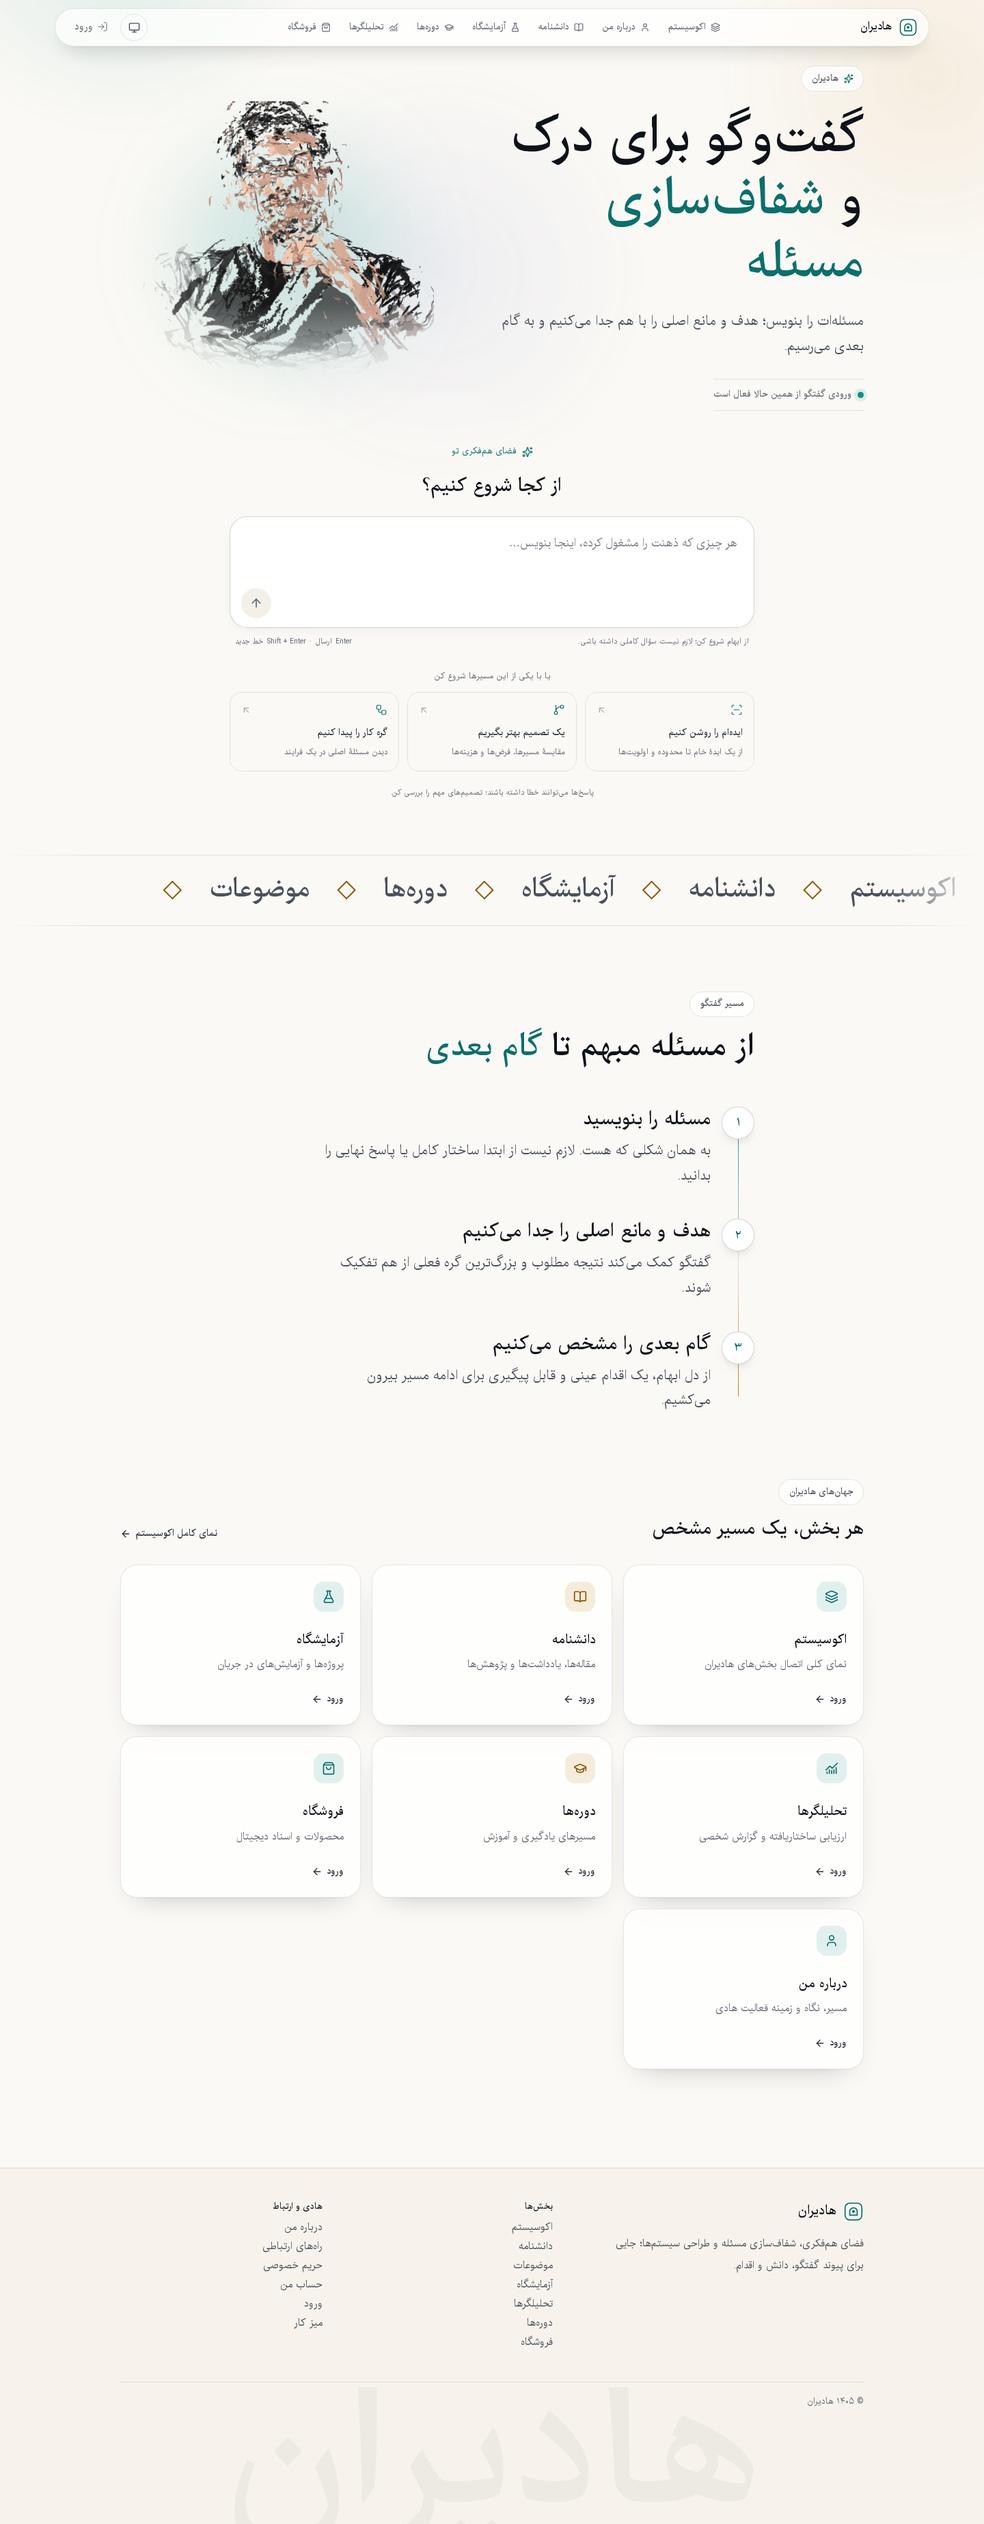
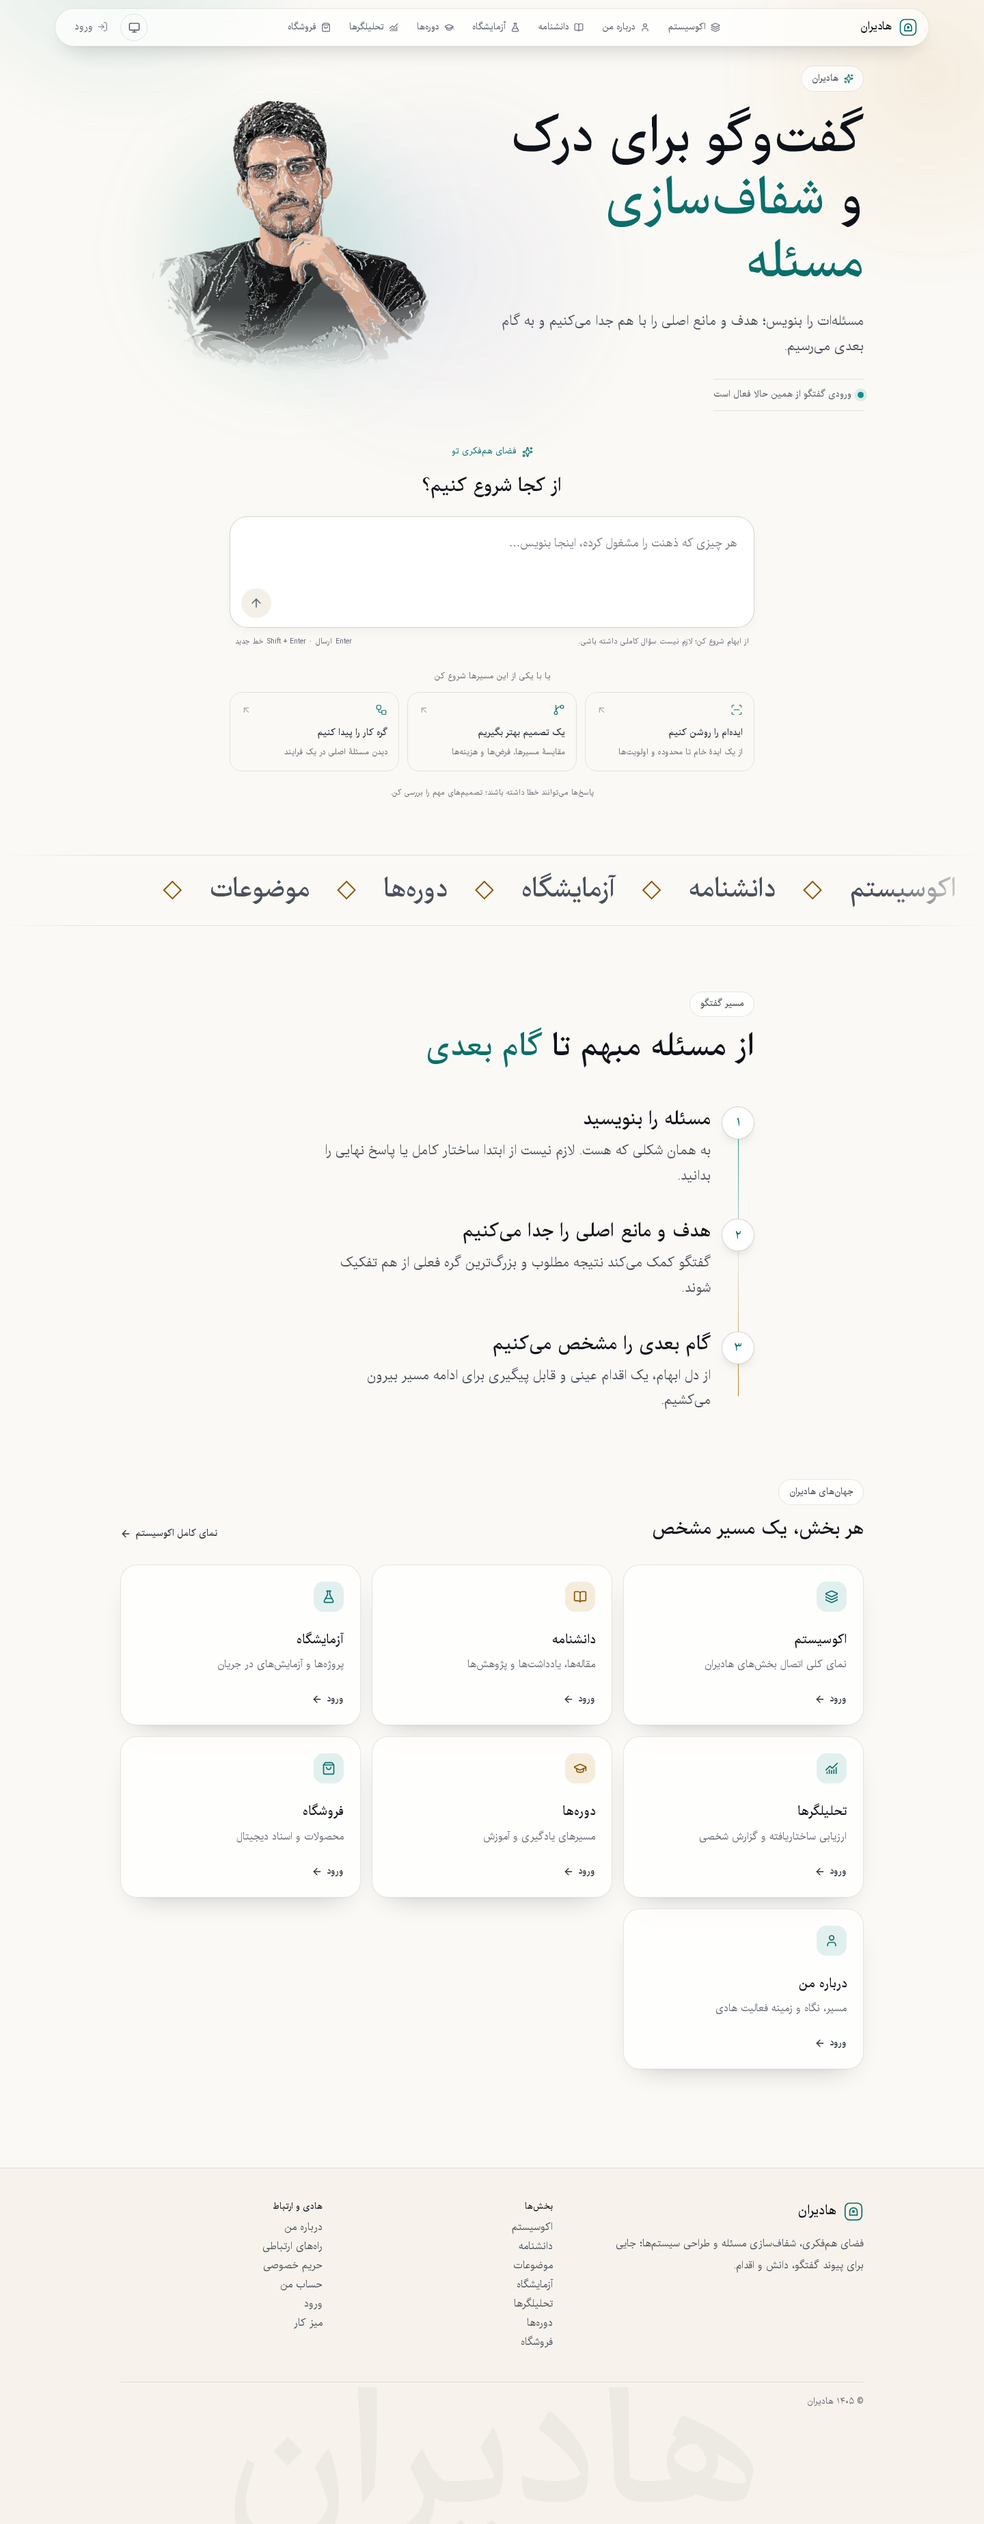
Integrate analyzer authoring and verify database and browser regressions

Changed region(s): [[0.1562, 0.0312, 0.4375, 0.1558]]

diff --git a/src/components/analyzers/AnalyzerCreateForm.tsx b/src/components/analyzers/AnalyzerCreateForm.tsx
@@ -1,10 +1,11 @@
 "use client";
+import { previewFetch as fetch } from "@/lib/auth/preview-fetch";
 
 import { useRouter } from "next/navigation";
 import { useState } from "react";
 
 const fieldClass =
-  "w-full rounded-xl border border-slate-200 bg-white px-3 py-2 text-sm text-slate-900 outline-none focus:border-indigo-400";
+  "w-full rounded-xl border border-line bg-elev px-3 py-2 text-sm text-ink outline-none focus:border-indigo-400";
 
 export function AnalyzerCreateForm() {
   const router = useRouter();
@@ -35,21 +36,21 @@ export function AnalyzerCreateForm() {
   }
 
   return (
-    <form onSubmit={(event) => void onSubmit(event)} className="space-y-4 rounded-2xl border border-slate-200 bg-white p-6">
+    <form onSubmit={(event) => void onSubmit(event)} className="space-y-4 rounded-2xl border border-line bg-elev p-6">
       <label className="block text-sm">
-        <span className="mb-1 block text-slate-600">نام فارسی</span>
+        <span className="mb-1 block text-muted">نام فارسی</span>
         <input name="nameFa" required minLength={3} className={fieldClass} placeholder="مثلاً ارزیابی تیم فروش" />
       </label>
       <label className="block text-sm">
-        <span className="mb-1 block text-slate-600">شناسهٔ لاتین پایدار</span>
+        <span className="mb-1 block text-muted">شناسهٔ لاتین پایدار</span>
         <input name="slug" required className={fieldClass} placeholder="sales-health" dir="ltr" />
-        <span className="mt-1 block text-xs text-slate-500">حروف کوچک انگلیسی و خط تیره. بعداً عوض نمیشود.</span>
+        <span className="mt-1 block text-xs text-muted">حروف کوچک انگلیسی و خط تیره. بعداً عوض نمیشود.</span>
       </label>
       {error ? <p className="text-sm text-red-700">{error}</p> : null}
       <button
         type="submit"
         disabled={busy}
-        className="rounded-xl bg-slate-900 px-4 py-2 text-sm font-medium text-white disabled:opacity-60"
+        className="rounded-xl bg-accent px-4 py-2 text-sm font-medium text-accent-fg disabled:opacity-60"
       >
         {busy ? "در حال ساخت…" : "ساخت پیشنویس"}
       </button>

diff --git a/src/components/analyzers/AnalyzerRun.tsx b/src/components/analyzers/AnalyzerRun.tsx
@@ -1,7 +1,8 @@
 "use client";
+import { previewFetch as fetch } from "@/lib/auth/preview-fetch";
 
 import { useEffect, useMemo, useRef, useState } from "react";
-import Link from "next/link";
+import Link from "@/components/workspace/WorkspaceLink";
 import { useRouter } from "next/navigation";
 import { itemsOf, sectionOf, type AnalyzerPack, type Item } from "@/lib/analyzers/pack";
 import {
@@ -78,10 +79,8 @@ export function AnalyzerRun({ pack }: { pack: AnalyzerPack }) {
 
   useEffect(() => {
     const draft = readDraft<DraftState>(draftKey) ?? { consent: false, answers: {}, index: 0 };
-    setConsent(draft.consent);
-    setAnswers(draft.answers);
-    setIndex(Math.min(Math.max(draft.index, 0), Math.max(allItems.length - 1, 0)));
-    setReady(true);
+    let cancelled = false;
+    queueMicrotask(() => { if (cancelled) return; setConsent(draft.consent); setAnswers(draft.answers); setIndex(Math.min(Math.max(draft.index, 0), Math.max(allItems.length - 1, 0))); setReady(true); });
 
     void (async () => {
       const res = await fetch(api, { cache: "no-store" });
@@ -111,6 +110,7 @@ export function AnalyzerRun({ pack }: { pack: AnalyzerPack }) {
     })();
 
     return () => {
+      cancelled = true;
       if (advanceTimer.current) window.clearTimeout(advanceTimer.current);
     };
     // load once per pack
@@ -127,7 +127,10 @@ export function AnalyzerRun({ pack }: { pack: AnalyzerPack }) {
 
   useEffect(() => {
     if (item?.kind === "text") {
-      setTextDraft(typeof answers[item.id] === "string" ? String(answers[item.id]) : "");
+      const id = item.id;
+      let cancelled = false;
+      queueMicrotask(() => { if (!cancelled) setTextDraft(typeof answers[id] === "string" ? String(answers[id]) : ""); });
+      return () => { cancelled = true; };
     }
   }, [item, answers]);
 

diff --git a/src/app/workspace/analyzers/new/page.tsx b/src/app/workspace/analyzers/new/page.tsx
@@ -1,4 +1,4 @@
-import Link from "next/link";
+import Link from "@/components/workspace/WorkspaceLink";
 import type { Metadata } from "next";
 import { requirePageOwner } from "@/lib/auth/guard";
 import { AnalyzerCreateForm } from "@/components/analyzers/AnalyzerCreateForm";
@@ -11,19 +11,20 @@ export const metadata: Metadata = {
 };
 
 export default async function NewAnalyzerPage() {
-  await requirePageOwner("/workspace/analyzers/new");
+  const account = await requirePageOwner("/workspace/analyzers/new");
   return (
-    <main className="mx-auto max-w-3xl space-y-6 px-4 py-8">
+    <main className="ws-page repo-module space-y-6">
       <p className="text-sm">
-        <Link href="/workspace/analyzers" className="text-slate-500 hover:text-indigo-700">
+        <Link href="/workspace/analyzers" className="text-muted hover:text-mark">
           تحلیلگرها
         </Link>
       </p>
-      <h1 className="text-2xl font-bold text-slate-900">آزمون تازه</h1>
-      <p className="text-sm leading-7 text-slate-500">
+      <h1 className="text-2xl font-bold text-ink">آزمون تازه</h1>
+      <p className="text-sm leading-7 text-muted">
         سؤالها ردیف دیتابیس نمیشوند؛ یک pack نسخهدار ذخیره میشود. Typeform نیست.
       </p>
-      <AnalyzerCreateForm />
+      {account.id === 0 ? <p className="integration-notice">فرم واقعی تألیف تحلیلگر؛ ذخیره در محیط بدون دیتابیس غیرفعال است.</p> : null}
+      <section className="ws-panel p-6"><fieldset disabled={account.id === 0}><AnalyzerCreateForm /></fieldset></section>
     </main>
   );
 }

diff --git a/src/app/api/workspace/analyzers/[slug]/route.ts b/src/app/api/workspace/analyzers/[slug]/route.ts
@@ -10,6 +10,7 @@ type Ctx = { params: Promise<{ slug: string }> };
 export async function GET(_request: Request, { params }: Ctx) {
   const auth = await requireOwner();
   if (auth.error) return auth.error;
+  if (auth.account.id === 0) return NextResponse.json({ error: "تألیف تحلیلگر به دیتابیس نیاز دارد." }, { status: 503 });
   const { slug } = await params;
   const pack = await readAuthoredPack(slug);
   if (!pack) return NextResponse.json({ error: "not_found" }, { status: 404 });
@@ -19,6 +20,7 @@ export async function GET(_request: Request, { params }: Ctx) {
 export async function PUT(request: Request, { params }: Ctx) {
   const auth = await requireOwner();
   if (auth.error) return auth.error;
+  if (auth.account.id === 0) return NextResponse.json({ error: "تألیف تحلیلگر به دیتابیس نیاز دارد." }, { status: 503 });
   const { slug } = await params;
   const existing = await readAuthoredPack(slug);
   if (!existing) return NextResponse.json({ error: "not_found" }, { status: 404 });

diff --git a/src/app/api/workspace/analyzers/route.ts b/src/app/api/workspace/analyzers/route.ts
@@ -8,6 +8,7 @@ export const dynamic = "force-dynamic";
 export async function GET() {
   const auth = await requireOwner();
   if (auth.error) return auth.error;
+  if (auth.account.id === 0) return NextResponse.json({ error: "تألیف تحلیلگر به دیتابیس نیاز دارد." }, { status: 503 });
   const authored = await listAuthoredPacks();
   return NextResponse.json({
     authored: authored.map((pack) => ({
@@ -23,6 +24,7 @@ export async function GET() {
 export async function POST(request: Request) {
   const auth = await requireOwner();
   if (auth.error) return auth.error;
+  if (auth.account.id === 0) return NextResponse.json({ error: "تألیف تحلیلگر به دیتابیس نیاز دارد." }, { status: 503 });
   let body: { slug?: unknown; nameFa?: unknown };
   try {
     body = (await request.json()) as { slug?: unknown; nameFa?: unknown };

diff --git a/src/app/analyzers/[slug]/report/page.tsx b/src/app/analyzers/[slug]/report/page.tsx
@@ -1,5 +1,5 @@
 import type { Metadata } from "next";
-import Link from "next/link";
+import Link from "@/components/workspace/WorkspaceLink";
 import { notFound, redirect } from "next/navigation";
 import { GenericReportView } from "@/components/analyzers/GenericReport";
 import { PageHeader } from "@/components/ui/PageHeader";

diff --git a/src/app/analyzers/[slug]/page.tsx b/src/app/analyzers/[slug]/page.tsx
@@ -1,5 +1,5 @@
 import type { Metadata } from "next";
-import Link from "next/link";
+import Link from "@/components/workspace/WorkspaceLink";
 import { notFound, redirect } from "next/navigation";
 import { AnalyzerRun } from "@/components/analyzers/AnalyzerRun";
 import { JsonLd } from "@/components/JsonLd";

diff --git a/src/components/analyzers/GenericReport.tsx b/src/components/analyzers/GenericReport.tsx
@@ -1,4 +1,4 @@
-import Link from "next/link";
+import Link from "@/components/workspace/WorkspaceLink";
 import type { GenericReport } from "@/lib/analyzers/generic-report";
 
 const FA = "۰۱۲۳۴۵۶۷۸۹";

diff --git a/qa/integration_live_browser.py b/qa/integration_live_browser.py
@@ -19,15 +19,18 @@ with sync_playwright() as p:
  page.locator('.ws-navigation a').filter(has_text='فروشگاه').click();page.get_by_role('link',name='کالای جدید',exact=True).click()
  page.locator('input[name=titleFa]').fill('کالای ساختهشده از فرم واقعی');page.locator('input[name=slug]').fill('ui-qa-'+str(int(time.time())));page.locator('input[name=amount]').fill('150000');page.locator('textarea[name=bodyFa]').fill('توضیح محصول آزمون');page.get_by_role('button',name='ذخیره',exact=True).click();expect(page.locator('h1')).to_have_text('فروشگاه');expect(page.get_by_text('کالای ساختهشده از فرم واقعی',exact=True)).to_be_visible();page.screenshot(path='qa/integration-live-shop.png',full_page=True)
  page.get_by_text('کالای ساختهشده از فرم واقعی',exact=True).click();expect(page.locator('input[name=titleFa]')).to_have_value('کالای ساختهشده از فرم واقعی');page.screenshot(path='qa/integration-live-listing.png',full_page=True)
+ # Latest upstream analyzer authoring UI: create a pack and edit a native range question.
+ page.goto('https://live.test/workspace/analyzers');page.get_by_role('link',name='آزمون تازه',exact=True).click();page.locator('input[name=nameFa]').fill('تحلیلگر ساختهشده از فرم');page.locator('input[name=slug]').fill('ui-assessment-'+str(int(time.time())));page.get_by_role('button',name='ساخت پیشنویس').click();expect(page.locator('h1')).to_have_text('تحلیلگر ساختهشده از فرم')
+ page.get_by_role('button',name='سؤالها (0)',exact=True).click();page.get_by_role('button',name='+ مقیاس ۰–۱۰',exact=True).click();page.get_by_role('button',name='ذخیره',exact=True).click();expect(page.get_by_text('ذخیره شد.',exact=True)).to_be_visible();page.screenshot(path='qa/integration-analyzer-editor.png',full_page=True)
  # A submitted member's real server-generated report is viewable after a normal password login.
  m=b.new_context(viewport={'width':390,'height':844});mp=m.new_page();mp.route('https://live.test/**',proxy);mp.on('pageerror',lambda e:errors.append(str(e)))
  mp.goto('https://live.test/signin?next=/analyzers/casio-ss/report');mp.get_by_role('textbox',name='شمارهٔ موبایل').fill('09121234568');mp.get_by_role('button',name='ادامه',exact=True).click();mp.get_by_placeholder('رمز حساب').fill('Integration-QA-2026');mp.get_by_role('button',name='ورود',exact=True).click();expect(mp.locator('h1')).to_contain_text('گزارش عارضهیابی')
  # The member has not completed onboarding; this modal must remain functional on the report.
- if mp.get_by_role('button',name='میپذیرم و ادامه میدهم',exact=False).count():pass
- mp.screenshot(path='qa/integration-live-report-mobile.png',full_page=True)
+ dialog=mp.get_by_role('dialog');expect(dialog).to_be_visible();dialog.get_by_role('button',name='قبول میکنم',exact=True).click();dialog.get_by_label('نام',exact=True).fill('عضو');dialog.get_by_label('نام خانوادگی',exact=True).fill('آزمون');dialog.get_by_role('button',name='ادامه',exact=True).click();expect(dialog).not_to_be_visible()
+ mp.screenshot(path='qa/integration-live-report-mobile.png',full_page=False)
  assert mp.evaluate('document.documentElement.scrollWidth<=innerWidth+1')
  assert not errors,errors
  assert not bad,bad
- Path('qa/integration-live-browser-results.json').write_text(json.dumps({'status':'PASS','checks':['Real password UI over HTTPS proxy, secure HttpOnly JWT cookie','Real listing creation, list refresh and editing form','Submitted member report renders on mobile with policy/onboarding preserved'],'browser_errors':errors,'http_5xx':bad,'note':'Simulated HTTPS origin to the local PostgreSQL-backed build, not production'},ensure_ascii=False,indent=2))
+ Path('qa/integration-live-browser-results.json').write_text(json.dumps({'status':'PASS','checks':['Real password UI over HTTPS proxy, secure HttpOnly JWT cookie','Real listing creation, list refresh and editing form','Authored analyzer creation, range-question editing and pack persistence','Submitted member mobile report and completed two-step policy/profile onboarding'],'browser_errors':errors,'http_5xx':bad,'note':'Simulated HTTPS origin to the local PostgreSQL-backed build, not production'},ensure_ascii=False,indent=2))
  print('PASS real login UI, secure cookie, listing create/edit and mobile submitted report; browser errors:',errors)
  b.close()

diff --git a/qa/integration_api.py b/qa/integration_api.py
@@ -98,6 +98,32 @@ assert 'گزارش شخصی' in report and 'درخت' in report
 member.call('/api/analyzers/casio-ss','POST',{'action':'answer','id':'MG.A1','value':6},expected=409)
 assert member.call('/api/analyzers/casio-ss')['attempt']['status']=='submitted'
 check('38 analyzer answers: consent, validation, incomplete guard, exact scoring, five-layer report, immutable submission')
+# Latest repository authoring feature, including DB isolation from the code-defined CASIO pack.
+member.call('/api/workspace/analyzers',expected=403)
+owner.call('/api/workspace/analyzers','POST',{'slug':'casio-ss','nameFa':'نام ممنوع'},expected=400)
+authoredSlug='qa-analyzer-'+nonce
+owner.call('/api/workspace/analyzers','POST',{'slug':authoredSlug,'nameFa':'تحلیلگر تألیفی آزمون'})
+owner.call('/api/workspace/analyzers','POST',{'slug':authoredSlug,'nameFa':'تحلیلگر تکراری'},expected=409)
+pack=owner.call('/api/workspace/analyzers/'+authoredSlug)['pack']
+assert pack['status']=='draft'
+member.call('/api/analyzers/'+authoredSlug,expected=404)
+anon.call('/analyzers/'+authoredSlug,expected=404)
+pack['status']='open'
+owner.call('/api/workspace/analyzers/'+authoredSlug,'PUT',pack,expected=400)
+pack['sections'][0]['items']=[{'id':'QA.1','kind':'range','text':'میزان آمادگی شما چقدر است؟','reverse':False,'anchors':{'0':'کم','5':'متوسط','10':'زیاد'}}]
+pack['formulas']=[{'id':'qa-mean','op':'mean','of':['QA.1']}]
+owner.call('/api/workspace/analyzers/'+authoredSlug,'PUT',pack)
+assert 'تحلیلگر تألیفی آزمون' in anon.call('/analyzers')
+assert 'تحلیلگر تألیفی آزمون' in anon.call('/analyzers/'+authoredSlug)
+member.call('/api/analyzers/'+authoredSlug,'POST',{'action':'consent'})
+member.call('/api/analyzers/'+authoredSlug,'POST',{'action':'answer','id':'QA.1','value':7})
+generic=member.call('/api/analyzers/'+authoredSlug,'POST',{'action':'submit'})['attempt']
+assert generic['results']['scores']['qa-mean']==7
+assert 'گزارش شخصی' in member.call('/analyzers/'+authoredSlug+'/report')
+assert owner.call('/api/workspace/analyzers/casio-ss')['readonly']
+owner.call('/api/workspace/analyzers/casio-ss','PUT',pack,expected=400)
+assert member.call('/api/analyzers/casio-ss')['attempt']['results']==fixture['results']
+check('Latest authoring: owner-only create/duplicate/reserved slug, private draft, sanitized publish, generic execution/report; CASIO read-only and unchanged')
 # Signed preview tickets must never authenticate when DATABASE_URL is configured, even with TEST_MODE=1.
 demo=urllib.request.urlopen(urllib.request.Request('http://127.0.0.1:3001/api/auth/otp/verify',data=json.dumps({'phone':'09121234567','code':'123456'}).encode(),headers={'Content-Type':'application/json'}))
 ticket=json.load(demo)['preview_ticket']

diff --git a/qa/integration_browser.py b/qa/integration_browser.py
@@ -49,7 +49,7 @@ with sync_playwright() as p:
  page.get_by_role('link',name='کالای جدید',exact=True).click();expect(page.locator('h1')).to_have_text('کالای جدید');assert page.locator('input[name=titleFa]').is_disabled()
  check('Complete real commerce UI remains present; no fake demo commerce writes')
  # Localized sidebar and both themes for all administrative modules, including new ones.
- routes=['/workspace','/workspace/knowledge','/workspace/projects','/workspace/collaborations','/workspace/shop','/workspace/shop/listings/new','/workspace/capture','/workspace/records/'+rid,'/workspace/settings','/workspace/analyzers']
+ routes=['/workspace','/workspace/knowledge','/workspace/projects','/workspace/collaborations','/workspace/shop','/workspace/shop/listings/new','/workspace/capture','/workspace/records/'+rid,'/workspace/settings','/workspace/analyzers','/workspace/analyzers/new','/workspace/analyzers/casio-ss']
  layouts=0
  for locale in ['fa','en']:
   for width in [375,768,1280,1440]:
